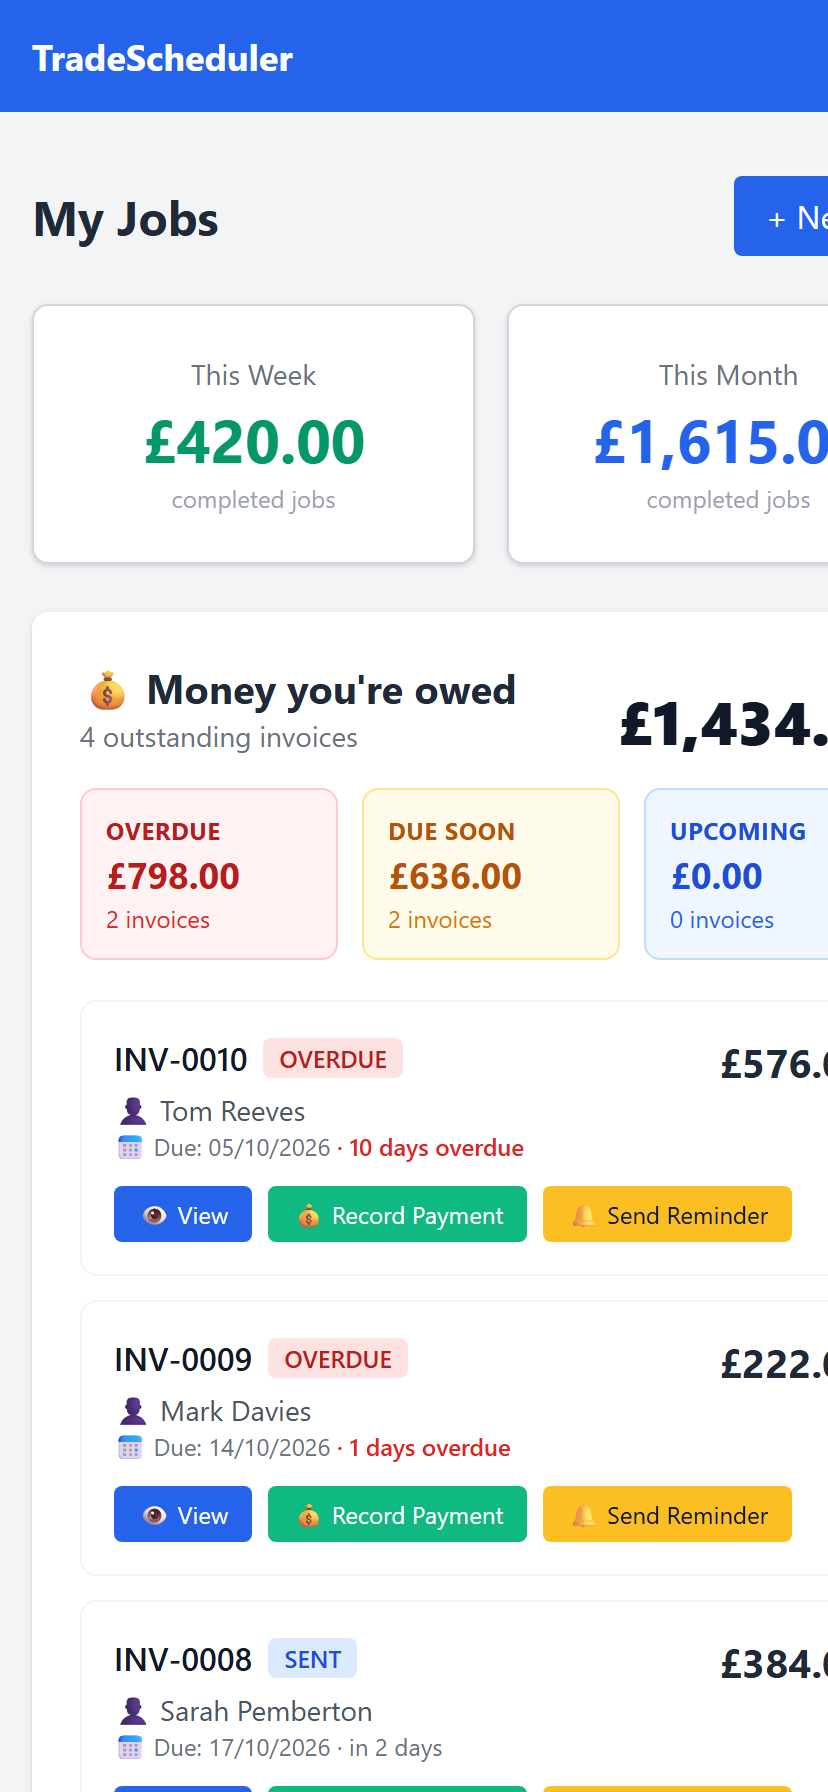
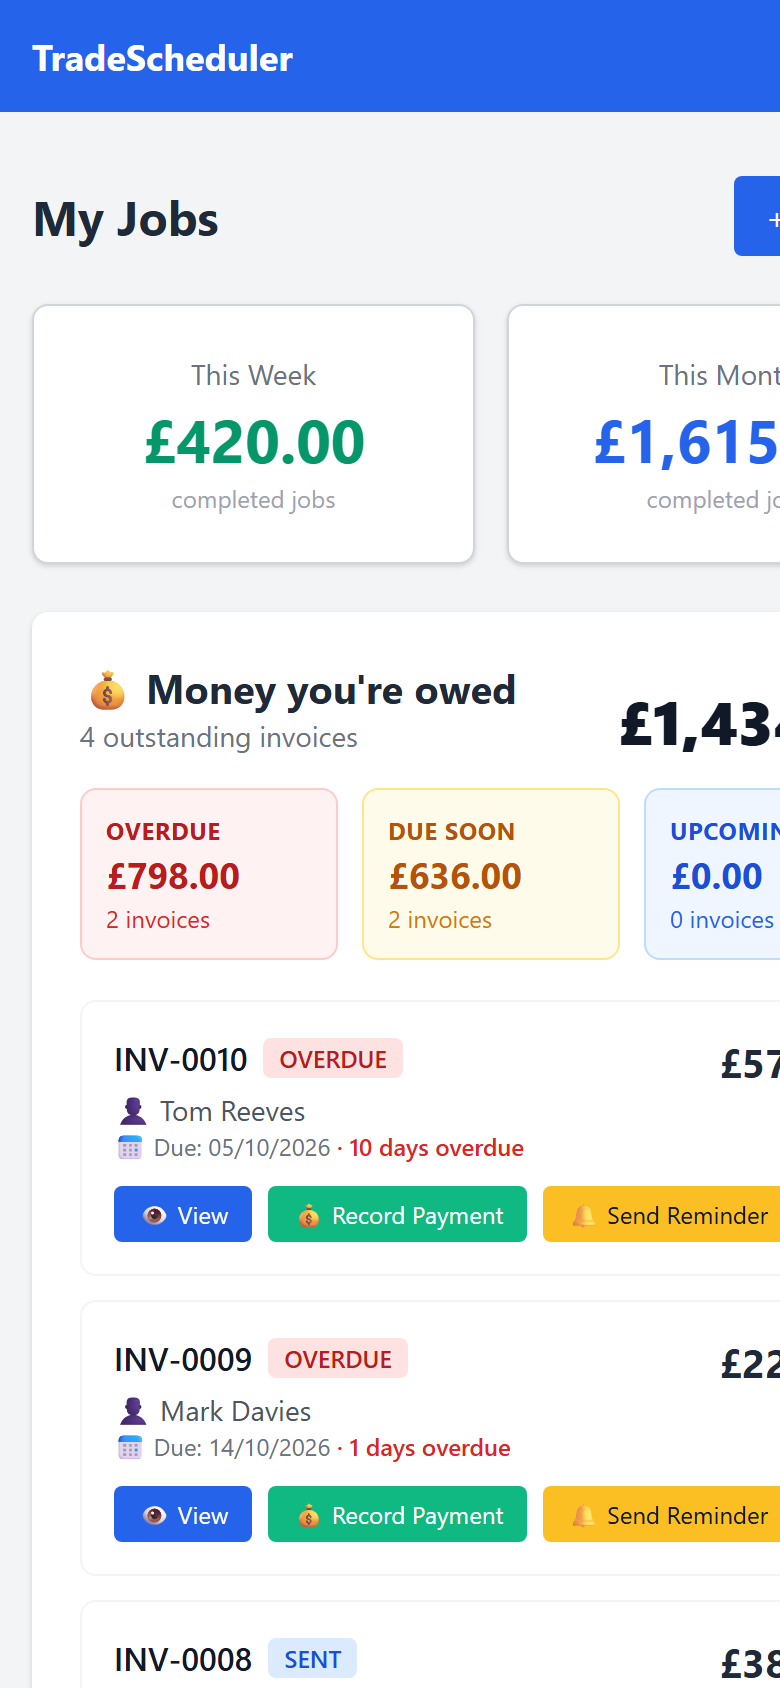
Enlarge the phone in the product tour so its screen reads
At 15rem the phone frame put a 390px app screen on the page at a bit over half
size, which left the app's body text around 9px. It read as a smudge rather
than as a phone running the app, and it was the one part of the swap that drew
a complaint.

Bump the frame to 20rem and capture at a true phone size (390x844) instead of
414x896. That lands the scale near 0.77 and the app's text near 12px, so the
screen is legible without turning the phone into the loudest thing on the page.

Also stop hardcoding the demo username and password in tools/demo_server.py, and
read them from the environment with the same defaults. They are throwaway values
for a local database, but a password literal in a tracked file is precisely what
the secret scanner exists to find, and it was right to find it.

diff --git a/app/static/marketing.css b/app/static/marketing.css
@@ -151,11 +151,15 @@ select:focus-visible {
     box-shadow: 0 26px 50px -18px rgba(15, 23, 42, .55);
 }
 
+/* The phone sits beside a paragraph, so it has to be big enough that the app
+   screenshot inside it can actually be read once scaled down. At 20rem the
+   real 390px screen lands at roughly 0.77, which keeps the app's body text
+   around 12px instead of the wallpaper it becomes below 15rem. */
 .ts-phone-static {
-    width: 15rem;
+    width: 20rem;
     background: #fff;
-    border: 8px solid #111827;
-    border-radius: 2rem;
+    border: 10px solid #111827;
+    border-radius: 2.5rem;
     overflow: hidden;
     box-shadow: 0 30px 55px -22px rgba(15, 23, 42, .45);
 }

diff --git a/app/templates/landing.html b/app/templates/landing.html
@@ -479,7 +479,7 @@
                     <div class="ts-phone-static">
                         <img src="{{ url_for('static', filename='screenshots/dashboard-phone.png') }}"
                              alt="TradeScheduler on a phone, showing today's jobs and an invoice that has just been sent"
-                             width="414" height="896" loading="lazy" decoding="async"
+                             width="390" height="844" loading="lazy" decoding="async"
                              class="block w-full h-auto">
                     </div>
                 </div>

diff --git a/tools/demo_server.py b/tools/demo_server.py
@@ -36,8 +36,11 @@ os.environ['DATABASE_URL'] = 'sqlite:///' + str(DB_PATH).replace('\\', '/')
 os.environ.pop('MAIL_PASSWORD', None)
 os.environ.pop('STRIPE_API_KEY', None)
 
-DEMO_USERNAME = 'demo'
-DEMO_PASSWORD = 'demo-password-123'
+# A loopback-only demo login, for a database that lives outside the repository.
+# Nothing here is a real secret, and both values stay overridable so nobody has
+# to sign in with a password written down in a public file.
+DEMO_USERNAME = os.environ.get('DEMO_USERNAME', 'demo')
+DEMO_PASSWORD = os.environ.get('DEMO_PASSWORD', 'demo-password-123')
 
 # A fictional business, so the screenshots show plausible UK trade data without
 # standing in for a real customer.

diff --git a/tools/make_screenshots.py b/tools/make_screenshots.py
@@ -38,7 +38,7 @@ SHOTS = [
     ('expenses', '/expenses', 960, 640),
     ('new-job', '/job/add', 960, 640),
     ('payments', '/payments', 960, 640),
-    ('dashboard-phone', '/', 414, 896),
+    ('dashboard-phone', '/', 390, 844),
 ]
 
 CHROME_CANDIDATES = [

diff --git a/tests/test_product_screenshots.py b/tests/test_product_screenshots.py
@@ -23,7 +23,7 @@ EXPECTED = {
     'dashboard.png': (960, 640),
     'invoices.png': (960, 640),
     'accounting.png': (960, 640),
-    'dashboard-phone.png': (414, 896),
+    'dashboard-phone.png': (390, 844),
 }
 
 IMG_TAG = re.compile(r'<img[^>]*>')
